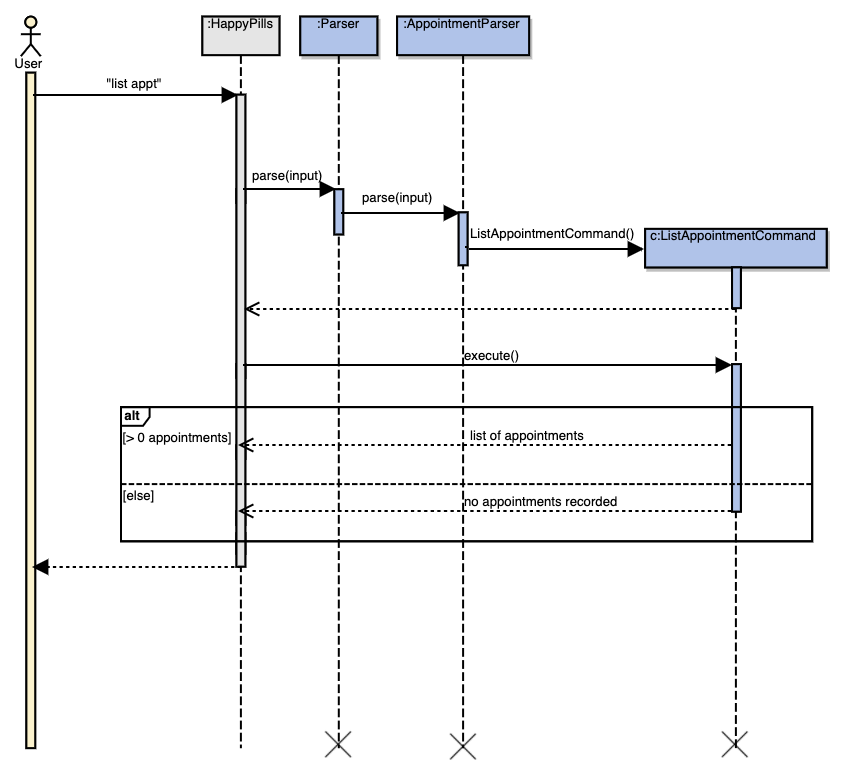
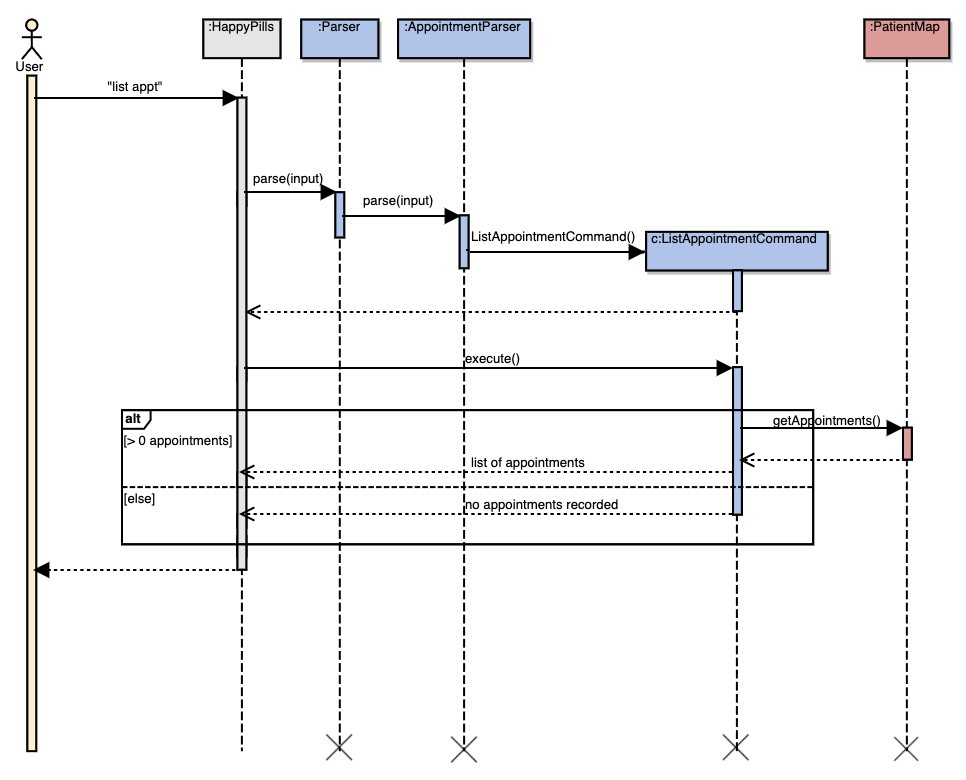
Update DG 3

diff --git a/docs/DeveloperGuide.md b/docs/DeveloperGuide.md
@@ -495,10 +495,10 @@ user input. Upon checking that it is an Appointment-related command, `Parser` th
 
 3. `HappyPills` will then call the `ListAppointmentCommand#execute()` method. 
 
-4. The `ListAppointmentCommand#execute()` method will check if there are any appointments in the program. If there are 
-appointments in the program, a message will be displayed to the user with information about all the appointments, which 
-includes the `apptId`, `date`, `time` and `nric` of the appointments. Otherwise, the user will receive a message saying 
-that the there is no appointments in the list. 
+4. The `ListAppointmentCommand#execute()` method will check if there are any appointments in the program. 
+
+5. If there are appointments in the program, it gets the list of appointments by calling `PatientMap.getAppointments()` 
+and displays all the appointments. Otherwise, the user will receive a message saying that the there is no appointments in the list. 
 
 The following sequence diagram summarises how the `ListAppointmentCommand` operation works: 
 
@@ -529,8 +529,10 @@ method.
 3. `HappyPills` will then call the `FindAppointmentCommand#execute()` method. 
 
 4. `FindAppointmentCommand#execute()` first checks the validity of the nric given. It then checks if a patient exists in the 
-`PatientMap`. If it exists, it displays all the appointments belonging to the patient, otherwise it displays that there is 
-no patient with the given nric that exists. 
+`PatientMap`. 
+
+5. If it exists, it gets the list of appointments by calling `PatientMap.getAppointments()` and displays all the appointments 
+belonging to the patient, otherwise it displays that there is no patient with the given nric that exists. 
 
 The following sequence diagram summarises how the `FindAppointmentCommand` operation works: 
 
